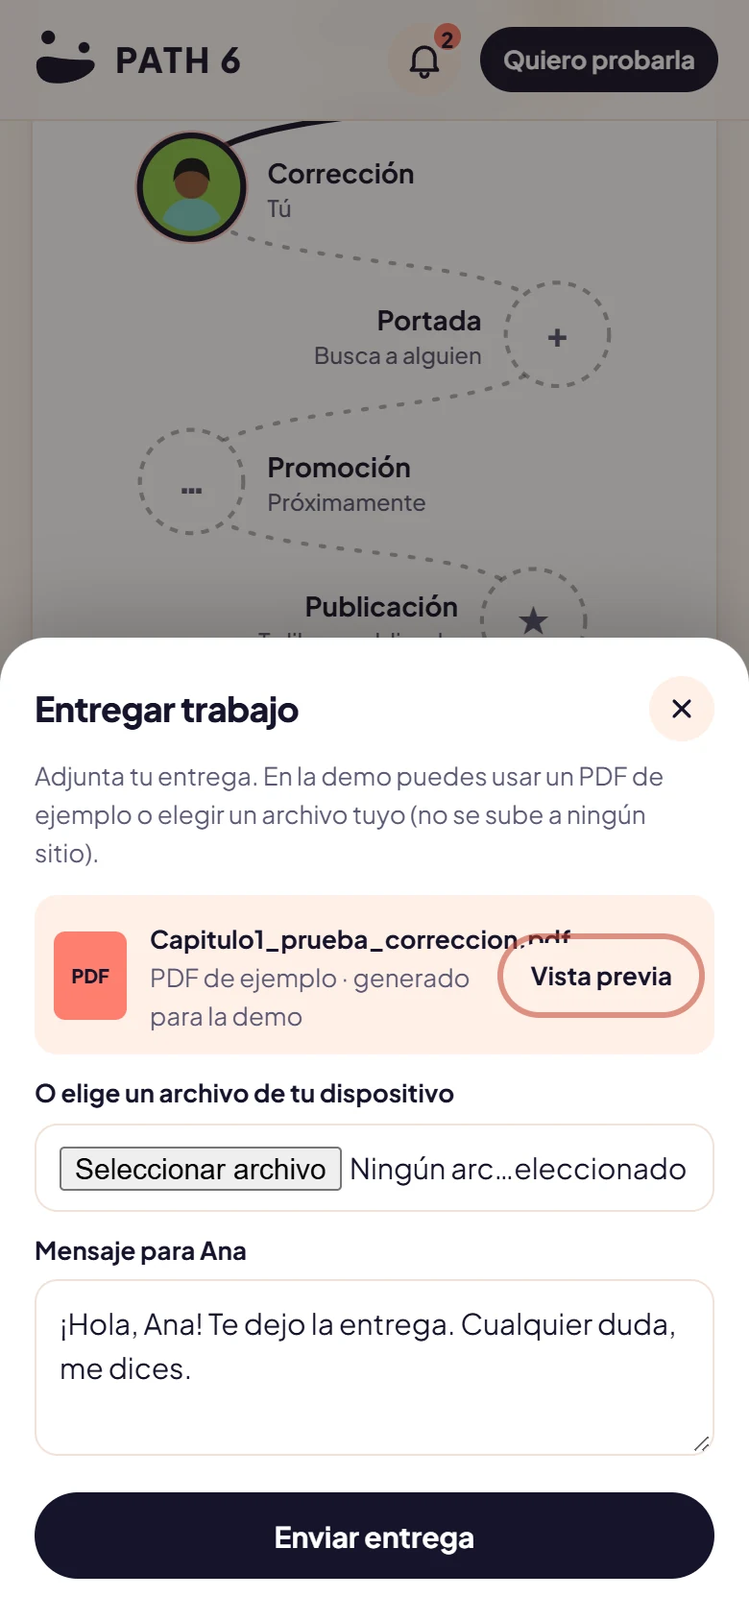
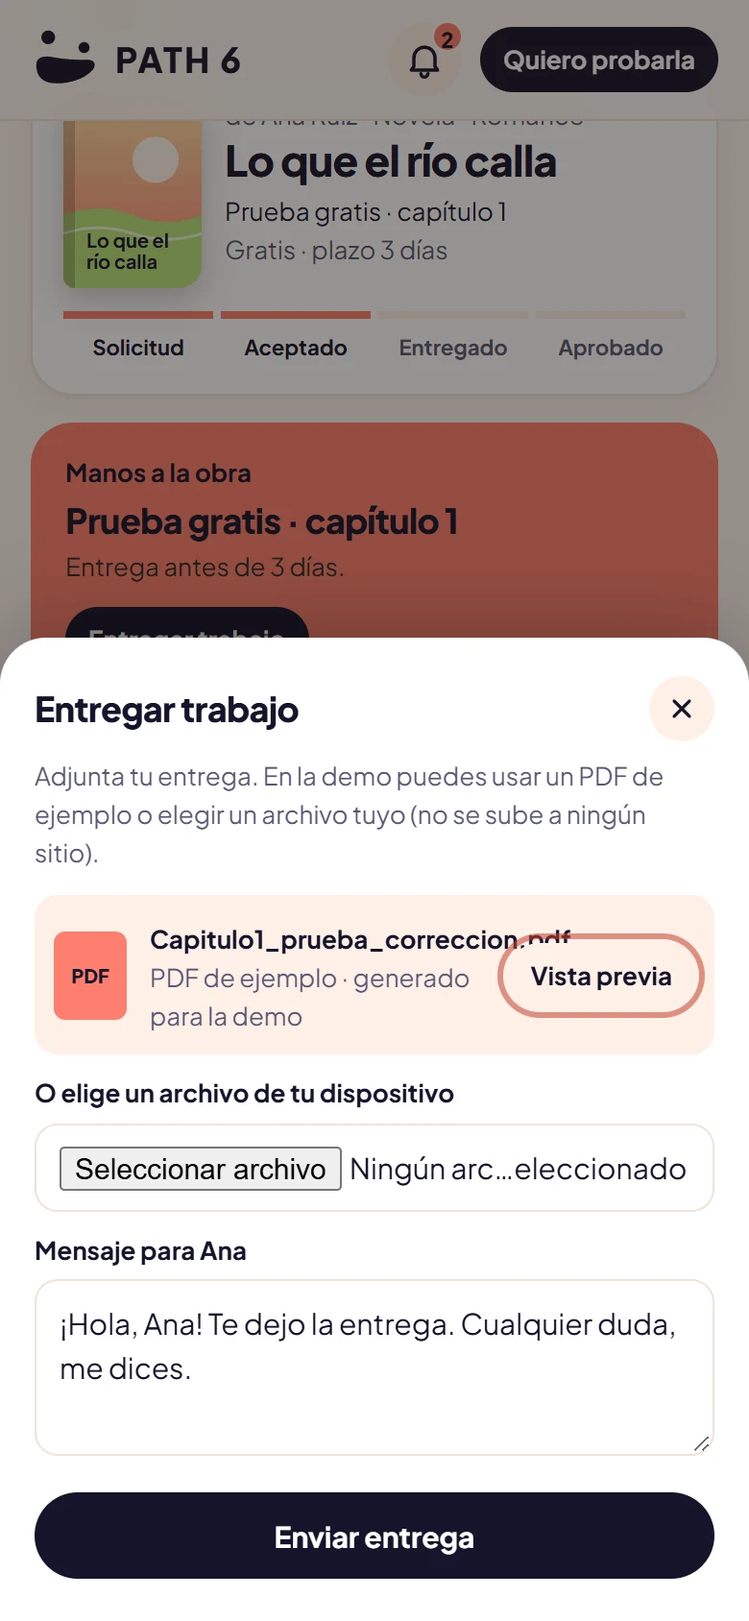
Path 6: camino profesional propio en los perfiles profesionales
- Demo actualizada: cada profesional ve su camino de experiencia
- Nueva pantalla «Camino profesional» y capturas rehechas
- Textos, decisiones y sitemaps al día (ES y EN)

Changed region(s): [[0.0308, 0.0616, 0.9846, 0.4005], [0.8, 0.1848, 0.8308, 0.2156]]

diff --git a/public/prototipos/path6/index.html b/public/prototipos/path6/index.html
@@ -690,9 +690,39 @@ function fairPrice(u, editable){
     </div></section>`;
 }
 // ===== Camino profesional (lectores, correctores, ilustradores) =====
-const CAREER = ['Perfil', '1.ª prueba', '1.er encargo', '5 reseñas', 'Verificado', 'Senior'];
-const CAREER_SUB = ['Perfil completo', 'Prueba gratis enviada', 'Primer trabajo cobrado', '5 valoraciones', 'Formación comprobada', 'Nivel profesional'];
-const CAREER_CUR = { lucia:4, pablo:2, irene:3 };
+// Cada perfil tiene su propio camino hasta ser profesional, hecho de experiencia
+// (encargos, tiempo y nivel), con los mismos umbrales que los niveles (LEVELS).
+const CAREER_BY = {
+  lector: [
+    ['Primera lectura', 'Tu primer manuscrito'],
+    ['Primer informe cobrado', 'Tu primer encargo'],
+    ['10 manuscritos', 'Experiencia en varios géneros'],
+    ['1 año leyendo', 'Constancia como beta'],
+    ['Intermedio', '2 años y 100 valoraciones'],
+    ['Lector/a profesional', 'Más de 5 años o editorial'],
+  ],
+  corrector: [
+    ['Primera prueba', 'Un capítulo gratis'],
+    ['Primer encargo', 'Tu primer trabajo cobrado'],
+    ['Primera novela', 'Una corrección completa'],
+    ['1 año corrigiendo', 'Experiencia continuada'],
+    ['Intermedio', '2 años y 100 valoraciones'],
+    ['Corrector/a profesional', 'Más de 5 años o editorial'],
+  ],
+  ilustrador: [
+    ['Primer boceto', 'Tu primera propuesta'],
+    ['Primera portada', 'Tu primer encargo cobrado'],
+    ['5 portadas', 'Un portfolio propio'],
+    ['1 año ilustrando', 'Experiencia continuada'],
+    ['Intermedio', '2 años y 100 valoraciones'],
+    ['Ilustrador/a profesional', 'Más de 5 años o editorial'],
+  ],
+};
+// Dónde está cada persona y qué le falta para el siguiente hito
+const CAREER_CUR = { lucia:4, pablo:2, irene:4 };
+const CAREER_NOW = { lucia:'Te faltan 77 valoraciones', pablo:'Si Ana te encarga la novela', irene:'Te falta 1 año y 88 valoraciones' };
+const careerSteps = () => CAREER_BY[ME.roles[0]] || CAREER_BY.corrector;
+const careerNow = () => { const s = SRC(); return (s && CAREER_NOW[s.id]) || 'Estás aquí'; };
 const SRC = () => ME.persona && ME.persona !== 'autor' ? byId(PERSONAS[ME.persona].who) : null;
 const careerCur = () => { const s = SRC(); return s ? (CAREER_CUR[s.id] ?? 1) : 0; };
 function careerMap(){
@@ -701,16 +731,25 @@ function careerMap(){
   const seg = (a,b) => `C ${a[0]} ${a[1]+50}, ${b[0]} ${b[1]-50}, ${b[0]} ${b[1]}`;
   let d = `M ${pts[0][0]} ${pts[0][1]}`, done = d;
   for (let i = 1; i < pts.length; i++){ d += ' ' + seg(pts[i-1], pts[i]); if (i <= cur) done += ' ' + seg(pts[i-1], pts[i]); }
-  const ico = ['✓','✓','✓','✓','✓','★'];
+  const steps = careerSteps();
   const nodes = pts.map(([x,y], i) => {
     const state = i < cur ? 'done' : i === cur ? 'now' : 'next';
     const right = x < 170, lx = right ? x+38 : x-38, anchor = right ? 'start' : 'end';
     const fill = state === 'next' ? 'var(--surface)' : NODE_C[i % 3];
     const stroke = state === 'next' ? 'stroke="var(--text)" stroke-opacity=".35" stroke-dasharray="4 4" stroke-width="2"' : state === 'now' ? 'stroke="var(--on-color)" stroke-width="3"' : '';
-    const inner = i === cur ? personSVG(x, y, 22, ME, fill) : `<text class="ini" x="${x}" y="${y+5}" text-anchor="middle" ${state === 'next' ? 'style="fill:var(--muted)"' : ''}>${state === 'done' ? '✓' : ico[i] === '★' ? '★' : i+1}</text>`;
-    return `${state === 'now' ? `<circle class="pulse" cx="${x}" cy="${y}" r="26" fill="var(--coral)"/>` : ''}<circle cx="${x}" cy="${y}" r="26" fill="${fill}" ${stroke}/>${inner}<text class="lab" x="${lx}" y="${y-2}" text-anchor="${anchor}">${CAREER[i]}</text><text class="sub" x="${lx}" y="${y+15}" text-anchor="${anchor}">${state === 'now' ? 'Estás aquí' : CAREER_SUB[i]}</text>`;
+    const inner = i === cur ? personSVG(x, y, 22, ME, fill) : `<text class="ini" x="${x}" y="${y+5}" text-anchor="middle" ${state === 'next' ? 'style="fill:var(--muted)"' : ''}>${state === 'done' ? '✓' : i === 5 ? '★' : i+1}</text>`;
+    return `${state === 'now' ? `<circle class="pulse" cx="${x}" cy="${y}" r="26" fill="var(--coral)"/>` : ''}<circle cx="${x}" cy="${y}" r="26" fill="${fill}" ${stroke}/>${inner}<text class="lab" x="${lx}" y="${y-2}" text-anchor="${anchor}">${steps[i][0]}</text><text class="sub" x="${lx}" y="${y+15}" text-anchor="${anchor}">${state === 'now' ? careerNow() : steps[i][1]}</text>`;
   }).join('');
-  return `<svg class="pmap" viewBox="0 0 340 436" role="img" aria-label="Tu camino profesional: ${CAREER[cur]}"><path d="${d}" fill="none" stroke="var(--text)" stroke-opacity=".35" stroke-width="2" stroke-dasharray="2 7" stroke-linecap="round"/><path d="${done}" fill="none" stroke="var(--text)" stroke-width="3" stroke-linecap="round"/>${nodes}</svg>`;
+  return `<svg class="pmap" viewBox="0 0 340 436" role="img" aria-label="Tu camino profesional: ${steps[cur][0]}"><path d="${d}" fill="none" stroke="var(--text)" stroke-opacity=".35" stroke-width="2" stroke-dasharray="2 7" stroke-linecap="round"/><path d="${done}" fill="none" stroke="var(--text)" stroke-width="3" stroke-linecap="round"/>${nodes}</svg>`;
+}
+function careerRow(){
+  const cur = careerCur(), steps = careerSteps();
+  return `<div class="prow" role="list" aria-label="Tu camino profesional">${steps.map(([t, sub], i) => {
+    const state = i < cur ? 'done' : i === cur ? 'now' : 'next';
+    const fill = state === 'next' ? 'var(--surface)' : NODE_C[i % 3];
+    const inner = state === 'now' ? `<svg viewBox="0 0 52 52">${personSVG(26, 26, 24, ME, fill)}</svg>` : `<span>${state === 'done' ? '✓' : i === 5 ? '★' : i + 1}</span>`;
+    return `<div role="listitem" class="pnode s-${state}"><span class="pdot" style="--f:${fill}">${inner}</span><b>${t}</b><small>${state === 'now' ? careerNow() : sub}</small></div>`;
+  }).join('')}</div>`;
 }
 // ===== Insignias según el tipo de usuario =====
 function badgesFor(){
@@ -924,7 +963,7 @@ function vYo(){
     <div class="row wrap" style="justify-content:center;gap:6px;margin-top:10px">${ME.roles.map(roleTag).join('')}${ME.genres.map(genreTag).join('')}</div>
     <p style="margin:12px 0 0;text-align:left">${ME.bio}</p>
     ${SRC() ? expBlock(SRC()) : ''}
-    ${SRC() ? `<div class="path" style="text-align:left">${CAREER.map((n,i)=>`<div class="st ${i<=careerCur()?'on':''} ${i===careerCur()?'now':''}"><div class="bar"></div>${n}</div>`).join('')}</div>` : `<div class="path" style="text-align:left">${PATHS.map((p,i)=>`<div class="st ${i<=ME.path?'on':''} ${i===ME.path?'now':''}" style="--c:${p.c}"><div class="bar"></div>${p.name}</div>`).join('')}</div>`}
+    ${SRC() ? `<div class="path" style="text-align:left">${careerSteps().map(([n],i)=>`<div class="st ${i<=careerCur()?'on':''} ${i===careerCur()?'now':''}"><div class="bar"></div>${n}</div>`).join('')}</div>` : `<div class="path" style="text-align:left">${PATHS.map((p,i)=>`<div class="st ${i<=ME.path?'on':''} ${i===ME.path?'now':''}" style="--c:${p.c}"><div class="bar"></div>${p.name}</div>`).join('')}</div>`}
   </section>
   ${SRC() ? `${workSection()}${fairPrice(SRC())}` : ''}
   <section class="section"${SRC() ? ' hidden' : ''}><div class="section-head"><h2>Proyectos</h2></div>
@@ -1243,6 +1282,8 @@ function vInicioPro(){
   <section class="greet">${avatar(ME,'lg')}<div><p class="small muted" style="margin:0">${greeting()}</p><h1 class="uname">${esc(ME.name)}</h1><div class="row" style="gap:6px;margin-top:6px">${roleTag(role)}${levelTag(s)}</div></div></section>
   <div class="home"><div class="hmain">
   ${jobCard()}
+  <section class="section"><div class="section-head"><h2>Tu camino profesional</h2></div>
+    <div class="card mapcard"><div class="only-m">${careerMap()}</div><div class="only-d">${careerRow()}</div></div></section>
   <div class="stats"><div><b>${s.jobs}</b><span>trabajos</span></div><div><b>${s.jobs ? '★ ' + s.rating.toLocaleString('es-ES') : '—'}</b><span>valoración</span></div><div><b>${earned}</b><span>este mes</span></div></div>
   ${workSection()}
   </div><div class="hside">
@@ -1335,9 +1376,7 @@ function jobCard(){
   return `<a class="card card-link mapcard jobc" href="#/encargo/${j.id}" style="margin-top:16px">
     <div class="row" style="gap:12px;padding:10px 12px 2px;align-items:center">${cover(p)}<div style="min-width:0"><p class="small muted" style="margin:0">Tu encargo actual · de Ana Ruiz</p><h2 style="margin:2px 0">${p.title}</h2><p class="small" style="margin:0">${j.service} · ${j.price ? eur(j.price) : 'Gratis'}</p></div></div>
     <div class="tl" style="padding:0 12px">${JOB_STATES.map((s,i) => `<span class="${i <= jobIdx(j) ? 'on' : ''}">${s}</span>`).join('')}</div>
-    <p class="small muted" style="margin:10px 12px 0">Tu tramo en el camino del libro:</p>
-    <div class="only-m">${pathMap(jobProject(j))}</div><div class="only-d" style="padding:0 12px">${pathRow(jobProject(j), true)}</div>
-    <div style="padding:0 12px 12px"><span class="btn sm block">${j.state === 'request' ? 'Ver la solicitud de Ana' : 'Abrir encargo'}</span></div></a>`;
+    <div style="padding:12px"><span class="btn sm block">${j.state === 'request' ? 'Ver la solicitud de Ana' : 'Abrir encargo'}</span></div></a>`;
 }
 function jobAction(j){
   const pay = j.price ? `${eur(j.price,true)} · pago protegido por Path 6` : 'Gratis · es una prueba para que Ana te conozca';
@@ -1361,7 +1400,6 @@ function vEncargo(){
   <section class="card"><div class="row" style="align-items:flex-start;gap:12px">${cover(p)}<div><p class="small muted" style="margin:0">de Ana Ruiz · Novela · Romance</p><h1 style="font-size:22px">${p.title}</h1><p class="small" style="margin:4px 0 0">${j.service}</p><p class="small muted" style="margin:0">${j.price ? eur(j.price,true) : 'Gratis'} · plazo ${j.deadline}</p></div></div>
     <div class="tl">${JOB_STATES.map((s,i) => `<span class="${i <= jobIdx(j) ? 'on' : ''}">${s}</span>`).join('')}</div></section>
   <section class="next">${jobAction(j)}</section>
-  <section class="section"><div class="section-head"><h2>Tu tramo en su camino</h2></div><div class="card mapcard"><div class="only-m">${pathMap(jobProject(j))}</div><div class="only-d">${pathRow(jobProject(j), true)}</div></div></section>
   <section class="section" id="chat"><div class="section-head"><h2>Chat con Ana</h2></div>
     <div class="card"><div class="chat">${j.chat.map(jobMsg).join('')}</div>
     <form class="composer" id="jcomposer"><input name="t" placeholder="Escribe a Ana…" aria-label="Mensaje" autocomplete="off"><button class="btn" aria-label="Enviar"><svg width="18" height="18" viewBox="0 0 24 24" fill="none" stroke="currentColor" stroke-width="2.2" stroke-linejoin="round"><path d="M4 12 20 4l-6 16-3-7z"/></svg></button></form></div>

diff --git a/src/textos/es.ts b/src/textos/es.ts
@@ -1688,7 +1688,7 @@ export const expedientes: Record<string, Expediente> = {
           pie: 'Lee manuscritos por capítulos y entrega un informe de lectura.',
           raiz: 'Path 6 · Lector beta',
           ramas: [
-            { nombre: 'Inicio', hijos: ['Rol y nivel', 'Encargo actual: Lectura beta · 10 capítulos', 'Su tramo del camino', 'Trabajos, valoración e ingresos', 'Precio recomendado', 'Solicitudes para ti'] },
+            { nombre: 'Inicio', hijos: ['Rol y nivel', 'Encargo actual: Lectura beta · 10 capítulos', 'Camino profesional', 'Trabajos, valoración e ingresos', 'Precio recomendado', 'Solicitudes para ti'] },
             { nombre: 'Buscar', hijos: ['Buscador', 'Filtros por servicio y género', 'Perfiles'] },
             { nombre: 'Proyectos', hijos: ['Proyectos en los que colabora'] },
             { nombre: 'Mensajes', hijos: ['Chat con el autor'] },
@@ -1706,7 +1706,7 @@ export const expedientes: Record<string, Expediente> = {
           pie: 'Empieza con una prueba gratuita de un capítulo y, si el autor le elige, recibe la corrección completa.',
           raiz: 'Path 6 · Corrector',
           ramas: [
-            { nombre: 'Inicio', hijos: ['Rol y nivel', 'Encargo actual: Prueba gratuita · capítulo 1', 'Su tramo del camino', 'Trabajos, valoración e ingresos', 'Precio recomendado', 'Solicitudes para ti'] },
+            { nombre: 'Inicio', hijos: ['Rol y nivel', 'Encargo actual: Prueba gratuita · capítulo 1', 'Camino profesional', 'Trabajos, valoración e ingresos', 'Precio recomendado', 'Solicitudes para ti'] },
             { nombre: 'Buscar', hijos: ['Buscador', 'Filtros por servicio y género', 'Perfiles'] },
             { nombre: 'Proyectos', hijos: ['Proyectos en los que colabora'] },
             { nombre: 'Mensajes', hijos: ['Chat con el autor'] },
@@ -1724,7 +1724,7 @@ export const expedientes: Record<string, Expediente> = {
           pie: 'Empieza con un boceto gratuito y, si el autor le elige, diseña la portada.',
           raiz: 'Path 6 · Ilustrador',
           ramas: [
-            { nombre: 'Inicio', hijos: ['Rol y nivel', 'Encargo actual: Boceto gratuito de portada', 'Su tramo del camino', 'Trabajos, valoración e ingresos', 'Precio recomendado', 'Solicitudes para ti'] },
+            { nombre: 'Inicio', hijos: ['Rol y nivel', 'Encargo actual: Boceto gratuito de portada', 'Camino profesional', 'Trabajos, valoración e ingresos', 'Precio recomendado', 'Solicitudes para ti'] },
             { nombre: 'Buscar', hijos: ['Buscador', 'Filtros por servicio y género', 'Perfiles'] },
             { nombre: 'Proyectos', hijos: ['Proyectos en los que colabora'] },
             { nombre: 'Mensajes', hijos: ['Chat con el autor'] },
@@ -1770,10 +1770,11 @@ export const expedientes: Record<string, Expediente> = {
         ],
       },
       cliente: {
-        titulo: 'Perfiles profesionales: su etapa del recorrido',
-        nota: 'Lectores beta, correctores e ilustradores ven el recorrido del libro con su etapa destacada y gestionan cada encargo de principio a fin.',
+        titulo: 'Perfiles profesionales: su propio camino',
+        nota: 'Cada profesional tiene su propio camino, basado en la experiencia: del primer encargo a los primeros trabajos completos, el tiempo en activo y el nivel intermedio, hasta llegar a profesional. Desde ahí gestiona cada encargo de principio a fin.',
         pasos: [
-          { img: 'pro-inicio', titulo: 'Inicio', texto: 'Nivel, encargo en curso y su etapa dentro del recorrido.' },
+          { img: 'pro-inicio', titulo: 'Inicio', texto: 'Nivel y encargo en curso, con su estado.' },
+          { img: 'camino', titulo: 'Camino profesional', texto: 'Hitos propios de cada perfil, con lo que falta para el siguiente.' },
           { img: 'encargo', titulo: 'Solicitud', texto: 'Aceptar o rechazar una prueba gratuita de un capítulo.' },
           { img: 'encargo-entregar', titulo: 'Entrega', texto: 'Adjuntar el PDF y enviar un mensaje al autor.' },
           { img: 'precio', titulo: 'Tarifa recomendada', texto: 'Rango según el nivel, con el cálculo explicado paso a paso.' },
@@ -1787,7 +1788,7 @@ export const expedientes: Record<string, Expediente> = {
           { img: 'web-inicio', titulo: 'Inicio', texto: 'Menú lateral, recorrido en horizontal y actividad en una segunda columna.' },
           { img: 'web-buscar', titulo: 'Búsqueda', texto: 'Resultados en dos columnas, con los filtros en la cabecera.' },
           { img: 'web-perfil', titulo: 'Perfil profesional', texto: 'Nivel, formación y servicios en una sola vista.' },
-          { img: 'web-encargo', titulo: 'Encargo', texto: 'Estado, etapa del profesional y conversación con el autor.' },
+          { img: 'web-pro-inicio', titulo: 'Inicio del profesional', texto: 'Encargo en curso, camino profesional en horizontal y tarifa recomendada.' },
         ],
       },
       webDespues: true,
@@ -1799,7 +1800,7 @@ export const expedientes: Record<string, Expediente> = {
       items: [
         { tab: 'Identidad', antes: 'La propuesta planteaba una estética «cozy» de neutros cálidos (beige, arena y marfil); en pantalla resultó de bajo contraste, y una versión posterior quedó demasiado próxima a un videojuego.', despues: 'Paleta Atardecer vivo sobre fondo claro, texto en tinta de alto contraste y una interfaz sobria que reserva el color para los acentos.' },
         { tab: 'Concepto', antes: 'Primeras versiones en las que el logotipo se leía como una cara.', despues: 'El logotipo expresa conexión y pasos: dos personas y la huella que las une, en coherencia con los seis grados de separación.' },
-        { tab: 'Recorrido', antes: 'Cada perfil profesional tenía su propio mapa, desconectado del libro.', despues: 'Un único recorrido compartido en el que cada profesional ve su etapa destacada.' },
+        { tab: 'Recorrido', antes: 'Los profesionales veían el camino del libro del autor, con los demás perfiles, en lugar del suyo.', despues: 'Cada perfil tiene su propio camino profesional, hecho de experiencia: del primer encargo a profesional.' },
         { tab: 'Tarifas', antes: 'Precios sin contexto, difíciles de justificar ante el autor.', despues: 'Rango recomendado según el nivel, calculado sobre el precio de mercado y explicado al usuario.' },
         { tab: 'Confianza', antes: 'El 40 % desconfiaba de pagar a un desconocido.', despues: 'Pago protegido hasta aprobar la entrega, perfiles verificados y pruebas gratuitas.' },
         { tab: 'Alcance', antes: 'Todos los servicios desde el lanzamiento.', despues: 'Lanzamiento con lectura beta, corrección y portada; la promoción (redes, boletín y destacados) pasa a una segunda fase.' },
@@ -1837,7 +1838,7 @@ export const expedientes: Record<string, Expediente> = {
       'Las pruebas gratuitas permiten comparar antes de contratar.',
       'La tarifa se recomienda según el nivel y se justifica.',
       'Los profesionales en formación acceden a encargos reales y construyen su portfolio.',
-      'Un único recorrido aclara el papel de cada perfil.',
+      'Cada profesional ve su progreso hacia el nivel profesional.',
     ],
     ia: {
       intro: 'Desarrollé el prototipo con agentes de IA como herramienta de implementación, a partir de mi diseño en Figma, la propuesta y la investigación. Las decisiones de producto, diseño y comportamiento fueron mías, así como la revisión de cada pantalla.',
@@ -1860,14 +1861,15 @@ export const expedientes: Record<string, Expediente> = {
       comparar: 'App: comparativa de dos pruebas de corrección',
       visor: 'App: visor de corrección con control de cambios y comentarios',
       'contratar-2': 'App: condiciones del contrato de colaboración',
-      'pro-inicio': 'App del corrector: inicio con el encargo en curso y su etapa del recorrido',
+      'pro-inicio': 'App del corrector: inicio con su nivel y el encargo en curso',
+      camino: 'App del corrector: camino profesional, de la primera prueba a corrector profesional',
+      'web-pro-inicio': 'Escritorio: inicio del corrector con el encargo, su camino profesional y la tarifa recomendada',
       encargo: 'App del corrector: solicitud de una prueba gratuita del capítulo 1',
       'encargo-entregar': 'App del corrector: entrega del trabajo con un PDF y un mensaje al autor',
       precio: 'App del corrector: tarifa recomendada para su nivel y su justificación',
       'web-inicio': 'Escritorio: inicio con el recorrido en horizontal, profesionales sugeridos y solicitudes',
       'web-buscar': 'Escritorio: búsqueda de profesionales en dos columnas',
       'web-perfil': 'Escritorio: perfil de una ilustradora con sus servicios',
-      'web-encargo': 'Escritorio: encargo del corrector con su etapa y la conversación con el autor',
     },
   },
 }

diff --git a/src/textos/en.ts b/src/textos/en.ts
@@ -1504,7 +1504,7 @@ export const en: Textos = {
             pie: 'Reads manuscripts chapter by chapter and delivers a reading report.',
             raiz: 'Path 6 · Beta reader',
             ramas: [
-              { nombre: 'Home', hijos: ['Role and level', 'Current job: Beta reading · 10 chapters', 'Their stretch of the path', 'Jobs, rating and earnings', 'Recommended price', 'Requests for you'] },
+              { nombre: 'Home', hijos: ['Role and level', 'Current job: Beta reading · 10 chapters', 'Career path', 'Jobs, rating and earnings', 'Recommended price', 'Requests for you'] },
               { nombre: 'Search', hijos: ['Search bar', 'Filters by service and genre', 'Profiles'] },
               { nombre: 'Projects', hijos: ['Projects they collaborate on'] },
               { nombre: 'Messages', hijos: ['Chat with the author'] },
@@ -1522,7 +1522,7 @@ export const en: Textos = {
             pie: 'Starts with a free one-chapter sample and, if the author chooses them, gets the full proofreading job.',
             raiz: 'Path 6 · Proofreader',
             ramas: [
-              { nombre: 'Home', hijos: ['Role and level', 'Current job: Free sample · chapter 1', 'Their stretch of the path', 'Jobs, rating and earnings', 'Recommended price', 'Requests for you'] },
+              { nombre: 'Home', hijos: ['Role and level', 'Current job: Free sample · chapter 1', 'Career path', 'Jobs, rating and earnings', 'Recommended price', 'Requests for you'] },
               { nombre: 'Search', hijos: ['Search bar', 'Filters by service and genre', 'Profiles'] },
               { nombre: 'Projects', hijos: ['Projects they collaborate on'] },
               { nombre: 'Messages', hijos: ['Chat with the author'] },
@@ -1540,7 +1540,7 @@ export const en: Textos = {
             pie: 'Starts with a free sketch and, if the author chooses them, designs the cover.',
             raiz: 'Path 6 · Illustrator',
             ramas: [
-              { nombre: 'Home', hijos: ['Role and level', 'Current job: Free cover sketch', 'Their stretch of the path', 'Jobs, rating and earnings', 'Recommended price', 'Requests for you'] },
+              { nombre: 'Home', hijos: ['Role and level', 'Current job: Free cover sketch', 'Career path', 'Jobs, rating and earnings', 'Recommended price', 'Requests for you'] },
               { nombre: 'Search', hijos: ['Search bar', 'Filters by service and genre', 'Profiles'] },
               { nombre: 'Projects', hijos: ['Projects they collaborate on'] },
               { nombre: 'Messages', hijos: ['Chat with the author'] },
@@ -1586,10 +1586,11 @@ export const en: Textos = {
           ],
         },
         cliente: {
-          titulo: 'Professional profiles: their stage of the journey',
-          nota: 'Beta readers, proofreaders and illustrators see the book’s journey with their stage highlighted and manage each job from start to finish.',
+          titulo: 'Professional profiles: their own path',
+          nota: 'Each professional has their own path, based on experience: from the first job to the first complete projects, time in the field and intermediate level, all the way to professional. From there they manage each job from start to finish.',
           pasos: [
-            { img: 'pro-inicio', titulo: 'Home', texto: 'Level, current job and their stage within the journey.' },
+            { img: 'pro-inicio', titulo: 'Home', texto: 'Level and current job, with its status.' },
+            { img: 'camino', titulo: 'Career path', texto: 'Milestones specific to each profile, with what’s left for the next one.' },
             { img: 'encargo', titulo: 'Request', texto: 'Accept or decline a free one-chapter sample.' },
             { img: 'encargo-entregar', titulo: 'Delivery', texto: 'Attach the PDF and send a message to the author.' },
             { img: 'precio', titulo: 'Recommended rate', texto: 'A range for their level, with the calculation explained step by step.' },
@@ -1603,7 +1604,7 @@ export const en: Textos = {
             { img: 'web-inicio', titulo: 'Home', texto: 'Side menu, horizontal journey and activity in a second column.' },
             { img: 'web-buscar', titulo: 'Search', texto: 'Results in two columns, with the filters in the header.' },
             { img: 'web-perfil', titulo: 'Professional profile', texto: 'Level, training and services in a single view.' },
-            { img: 'web-encargo', titulo: 'Job', texto: 'Status, the professional’s stage and the conversation with the author.' },
+            { img: 'web-pro-inicio', titulo: 'Professional home', texto: 'Current job, the career path laid out horizontally and the recommended rate.' },
           ],
         },
         webDespues: true,
@@ -1615,7 +1616,7 @@ export const en: Textos = {
         items: [
           { tab: 'Identity', antes: 'The proposal suggested a “cosy” look of warm neutrals (beige, sand and ivory); on screen it lacked contrast, and a later version came too close to a video game.', despues: 'The Atardecer vivo palette on a light background, high-contrast ink text and a restrained interface that keeps colour for accents.' },
           { tab: 'Concept', antes: 'Early versions in which the logo read as a face.', despues: 'The logo expresses connection and steps: two people and the footprint that joins them, consistent with the six degrees of separation.' },
-          { tab: 'Journey', antes: 'Each professional profile had its own map, disconnected from the book.', despues: 'A single shared journey in which each professional sees their stage highlighted.' },
+          { tab: 'Journey', antes: 'Professionals saw the author’s book path, with the other profiles, instead of their own.', despues: 'Each profile has its own career path, made of experience: from the first job to professional.' },
           { tab: 'Rates', antes: 'Prices with no context, hard to justify to the author.', despues: 'A recommended range by level, based on the market price and explained to the user.' },
           { tab: 'Trust', antes: '40 % distrusted paying a stranger.', despues: 'Payment protected until the delivery is approved, verified profiles and free samples.' },
           { tab: 'Scope', antes: 'Every service from launch.', despues: 'Launch with beta reading, proofreading and covers; promotion (social media, newsletter and featured spots) moves to a second phase.' },
@@ -1653,7 +1654,7 @@ export const en: Textos = {
         'Free samples allow comparison before hiring.',
         'The rate is recommended by level and justified.',
         'Professionals in training get real jobs and build their portfolio.',
-        'A single journey clarifies each profile’s role.',
+        'Each professional sees their progress towards professional level.',
       ],
       ia: {
         intro: 'I developed the prototype with AI agents as an implementation tool, starting from my design in Figma, the proposal and the research. The product, design and behaviour decisions were mine, as was the review of every screen.',
@@ -1676,14 +1677,15 @@ export const en: Textos = {
         comparar: 'App: comparison of two proofreading samples',
         visor: 'App: correction viewer with tracked changes and comments',
         'contratar-2': 'App: terms of the collaboration contract',
-        'pro-inicio': 'Proofreader app: home with the current job and his stage of the journey',
+        'pro-inicio': 'Proofreader app: home with his level and the current job',
+        camino: 'Proofreader app: career path, from the first sample to professional proofreader',
+        'web-pro-inicio': 'Desktop: proofreader home with the job, his career path and the recommended rate',
         encargo: 'Proofreader app: request for a free chapter 1 sample',
         'encargo-entregar': 'Proofreader app: delivering the work with a PDF and a message to the author',
         precio: 'Proofreader app: recommended rate for his level and its reasoning',
         'web-inicio': 'Desktop: home with the horizontal journey, suggested professionals and requests',
         'web-buscar': 'Desktop: search for professionals in two columns',
         'web-perfil': 'Desktop: an illustrator’s profile with her services',
-        'web-encargo': 'Desktop: proofreader job with his stage and the conversation with the author',
       },
     },
   },
